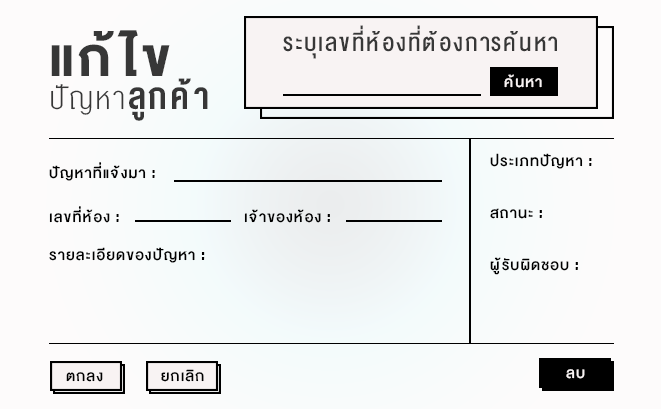
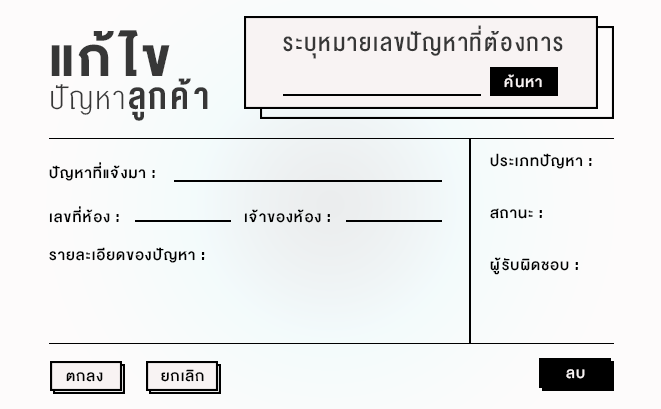
search report ในหน้าแก้ไข

Changed region(s): [[0.4841, 0.0587, 0.8472, 0.1467]]

diff --git a/Condominium/src/condominium/Condominium.java b/Condominium/src/condominium/Condominium.java
@@ -6,11 +6,14 @@
 package condominium;
 
 import com.toedter.calendar.JDateChooser;
+import condominium.model.ManagerEmp;
 import condominium.model.Problem;
 import condominium.model.Report;
 import condominium.model.Room;
 import condominium.model.User;
 import java.awt.Color;
+import java.sql.Connection;
+import java.sql.*;
 import java.util.Calendar;
 import java.util.Date;
 import java.util.List;
@@ -42,13 +45,31 @@ public class Condominium extends javax.swing.JFrame {
         }   
     }
     
+    public void show_emp(){
+        
+        try{
+            Connection con = ConnectionBuilder.getConnection();
+            PreparedStatement state = con.prepareStatement("select * from managerEmp");
+            ResultSet rs = state.executeQuery();
+            while(rs.next()){
+                String name = rs.getString("manFname")+" "+rs.getString("manLname");
+                manEmpbox.addItem(name);
+            }   
+        }catch(SQLException s){
+            s.printStackTrace();
+        }
+          
+    }
+    
     User myuser = null;
 
     public Condominium() {
         
         initComponents();
         show_report();
+        show_emp();
         adRegister.setVisible(false);
+        adConfig.setVisible(false);
         adIndex.setVisible(false);
         userIndex.setVisible(false);
         adReport.setVisible(false);
@@ -86,8 +107,9 @@ public class Condominium extends javax.swing.JFrame {
         configRoom.setBackground(new Color(0, 0, 0, 0));
         configDetail.setBackground(new Color(0, 0, 0, 0));
         configType.setBackground(new Color(0, 0, 0, 0));
-        searchRoom.setBackground(new Color(0, 0, 0, 0));
-
+        searchReport.setBackground(new Color(0, 0, 0, 0));
+        configUser.setBackground(new Color(0, 0, 0, 0));
+        
     }
 
     /**
@@ -101,7 +123,7 @@ public class Condominium extends javax.swing.JFrame {
 
         adReport = new javax.swing.JPanel();
         adConfig = new javax.swing.JPanel();
-        searchRoombtn = new javax.swing.JButton();
+        searchReportbtn = new javax.swing.JButton();
         okConfig = new javax.swing.JButton();
         cancleConfig = new javax.swing.JButton();
         deleteReport = new javax.swing.JButton();
@@ -110,12 +132,13 @@ public class Condominium extends javax.swing.JFrame {
         configDetail = new javax.swing.JTextField();
         configType = new javax.swing.JTextField();
         configUser = new javax.swing.JTextField();
-        searchRoom = new javax.swing.JTextField();
+        searchReport = new javax.swing.JTextField();
         statusBox = new javax.swing.JComboBox<>();
         manEmpbox = new javax.swing.JComboBox<>();
         adConfigBg = new javax.swing.JLabel();
         home1 = new javax.swing.JButton();
-        jScrollPane2 = new javax.swing.JScrollPane();
+        configbtn = new javax.swing.JButton();
+        repTablePane = new javax.swing.JScrollPane();
         reportTable = new javax.swing.JTable();
         adReportBg = new javax.swing.JLabel();
         userReport = new javax.swing.JPanel();
@@ -186,10 +209,15 @@ public class Condominium extends javax.swing.JFrame {
 
         adConfig.setLayout(new org.netbeans.lib.awtextra.AbsoluteLayout());
 
-        searchRoombtn.setText("\n");
-        searchRoombtn.setBorder(null);
-        searchRoombtn.setContentAreaFilled(false);
-        adConfig.add(searchRoombtn, new org.netbeans.lib.awtextra.AbsoluteConstraints(490, 70, 70, 30));
+        searchReportbtn.setText("\n");
+        searchReportbtn.setBorder(null);
+        searchReportbtn.setContentAreaFilled(false);
+        searchReportbtn.addActionListener(new java.awt.event.ActionListener() {
+            public void actionPerformed(java.awt.event.ActionEvent evt) {
+                searchReportbtnActionPerformed(evt);
+            }
+        });
+        adConfig.add(searchReportbtn, new org.netbeans.lib.awtextra.AbsoluteConstraints(490, 70, 70, 30));
 
         okConfig.setContentAreaFilled(false);
         adConfig.add(okConfig, new org.netbeans.lib.awtextra.AbsoluteConstraints(50, 360, 70, 30));
@@ -207,6 +235,11 @@ public class Condominium extends javax.swing.JFrame {
 
         configTopic.setEditable(false);
         configTopic.setBorder(null);
+        configTopic.addActionListener(new java.awt.event.ActionListener() {
+            public void actionPerformed(java.awt.event.ActionEvent evt) {
+                configTopicActionPerformed(evt);
+            }
+        });
         adConfig.add(configTopic, new org.netbeans.lib.awtextra.AbsoluteConstraints(170, 152, 270, 30));
 
         configRoom.setEditable(false);
@@ -225,8 +258,14 @@ public class Condominium extends javax.swing.JFrame {
         configUser.setBorder(null);
         adConfig.add(configUser, new org.netbeans.lib.awtextra.AbsoluteConstraints(340, 192, 100, 30));
 
-        searchRoom.setBorder(null);
-        adConfig.add(searchRoom, new org.netbeans.lib.awtextra.AbsoluteConstraints(280, 62, 200, 30));
+        searchReport.setFont(new java.awt.Font("BrowalliaUPC", 1, 24)); // NOI18N
+        searchReport.setBorder(null);
+        searchReport.addActionListener(new java.awt.event.ActionListener() {
+            public void actionPerformed(java.awt.event.ActionEvent evt) {
+                searchReportActionPerformed(evt);
+            }
+        });
+        adConfig.add(searchReport, new org.netbeans.lib.awtextra.AbsoluteConstraints(280, 62, 200, 30));
 
         statusBox.setModel(new javax.swing.DefaultComboBoxModel<>(new String[] { "New", "Actualize", "Success", " " }));
         statusBox.setBorder(null);
@@ -249,7 +288,16 @@ public class Condominium extends javax.swing.JFrame {
         });
         adReport.add(home1, new org.netbeans.lib.awtextra.AbsoluteConstraints(40, 20, 180, 80));
 
-        jScrollPane2.setBorder(null);
+        configbtn.setBorder(null);
+        configbtn.setContentAreaFilled(false);
+        configbtn.addActionListener(new java.awt.event.ActionListener() {
+            public void actionPerformed(java.awt.event.ActionEvent evt) {
+                configbtnActionPerformed(evt);
+            }
+        });
+        adReport.add(configbtn, new org.netbeans.lib.awtextra.AbsoluteConstraints(610, 130, 90, 40));
+
+        repTablePane.setBorder(null);
 
         reportTable.setModel(new javax.swing.table.DefaultTableModel(
             new Object [][] {
@@ -260,11 +308,11 @@ public class Condominium extends javax.swing.JFrame {
             }
         ));
         reportTable.setEnabled(false);
-        jScrollPane2.setViewportView(reportTable);
+        repTablePane.setViewportView(reportTable);
 
-        adReport.add(jScrollPane2, new org.netbeans.lib.awtextra.AbsoluteConstraints(40, 180, 660, 410));
+        adReport.add(repTablePane, new org.netbeans.lib.awtextra.AbsoluteConstraints(40, 180, 660, 410));
 
-        adReportBg.setIcon(new javax.swing.ImageIcon(getClass().getResource("/condominium/Admin-report.png"))); // NOI18N
+        adReportBg.setIcon(new javax.swing.ImageIcon("C:\\Users\\BoomGDH559\\Desktop\\Condominium\\Condominium\\src\\condominium\\Admin-report.png")); // NOI18N
         adReportBg.setText("jLabel2");
         adReport.add(adReportBg, new org.netbeans.lib.awtextra.AbsoluteConstraints(0, 0, 750, 600));
 
@@ -739,6 +787,29 @@ public class Condominium extends javax.swing.JFrame {
         // TODO add your handling code here:
     }//GEN-LAST:event_cancleConfigActionPerformed
 
+    private void configbtnActionPerformed(java.awt.event.ActionEvent evt) {//GEN-FIRST:event_configbtnActionPerformed
+        adConfig.setVisible(true);
+        repTablePane.setVisible(false);
+    }//GEN-LAST:event_configbtnActionPerformed
+
+    private void searchReportActionPerformed(java.awt.event.ActionEvent evt) {//GEN-FIRST:event_searchReportActionPerformed
+        
+    }//GEN-LAST:event_searchReportActionPerformed
+
+    private void configTopicActionPerformed(java.awt.event.ActionEvent evt) {//GEN-FIRST:event_configTopicActionPerformed
+        
+    }//GEN-LAST:event_configTopicActionPerformed
+
+    private void searchReportbtnActionPerformed(java.awt.event.ActionEvent evt) {//GEN-FIRST:event_searchReportbtnActionPerformed
+        int reportSearch = Integer.parseInt(searchReport.getText());
+        Report config = Report.configShow(reportSearch);
+        configTopic.setText(config.getReportTopic());
+        configDetail.setText(config.getReportDetail());
+        configRoom.setText(config.getRoom().getRoomNo());
+        configUser.setText(config.getRoom().getUser().getUserFname()+" "+config.getRoom().getUser().getUserLname());
+        configType.setText(config.getProb().getProbName());
+    }//GEN-LAST:event_searchReportbtnActionPerformed
+
     /**
      * @param args the command line arguments
      */
@@ -797,6 +868,7 @@ public class Condominium extends javax.swing.JFrame {
     private javax.swing.JTextField configTopic;
     private javax.swing.JTextField configType;
     private javax.swing.JTextField configUser;
+    private javax.swing.JButton configbtn;
     private com.toedter.calendar.JDateChooser date;
     private javax.swing.JButton deleteReport;
     private javax.swing.JTextField email;
@@ -805,7 +877,6 @@ public class Condominium extends javax.swing.JFrame {
     private javax.swing.JButton home1;
     private javax.swing.JButton jButton1;
     private javax.swing.JScrollPane jScrollPane1;
-    private javax.swing.JScrollPane jScrollPane2;
     private javax.swing.JTextArea jTextArea1;
     private javax.swing.JTextField lastname;
     private javax.swing.JButton login;
@@ -818,6 +889,7 @@ public class Condominium extends javax.swing.JFrame {
     private javax.swing.JButton profileBtn;
     private javax.swing.JButton register1;
     private javax.swing.JLabel registerBg;
+    private javax.swing.JScrollPane repTablePane;
     private javax.swing.JButton reportBtn;
     private javax.swing.JLabel reportDetail;
     private javax.swing.JTextField reportDetailTF;
@@ -826,8 +898,8 @@ public class Condominium extends javax.swing.JFrame {
     private javax.swing.JTable reportTable;
     private javax.swing.JButton save;
     private javax.swing.JButton save_report;
-    private javax.swing.JTextField searchRoom;
-    private javax.swing.JButton searchRoombtn;
+    private javax.swing.JTextField searchReport;
+    private javax.swing.JButton searchReportbtn;
     private javax.swing.JTextField status;
     private javax.swing.JComboBox<String> statusBox;
     private javax.swing.JTextField userId;

diff --git a/Condominium/src/condominium/model/ManagerEmp.java b/Condominium/src/condominium/model/ManagerEmp.java
@@ -10,12 +10,38 @@ import java.sql.Connection;
 import java.sql.PreparedStatement;
 import java.sql.ResultSet;
 import java.sql.SQLException;
+import java.util.ArrayList;
+import java.util.List;
 
 /**
  *
  * @author BoomGDH559
  */
 public class ManagerEmp {
+
+    public static List<ManagerEmp> showEmp() {
+        
+        List<ManagerEmp> emp = null;
+        try{
+            Connection con = ConnectionBuilder.getConnection();
+            PreparedStatement state = con.prepareStatement("select * from managerEmp");
+            ResultSet rs = state.executeQuery();
+            while(rs.next()){
+                if(emp == null){
+                    emp = new ArrayList<ManagerEmp>();
+                }
+                ManagerEmp man = new ManagerEmp();
+                man.setmFname(rs.getString("manFname"));
+                man.setmLname(rs.getString("manLname"));
+                emp.add(man);
+            }
+            con.close();
+        }catch(SQLException s){
+            s.printStackTrace();
+        }
+        return emp;
+        
+    }
     
     private int manId;
     private String mFname,mLname;
@@ -64,6 +90,16 @@ public class ManagerEmp {
         
         
     }
+    
+    
+    
+//    public static void main(String[] args) {
+//        
+//        List<ManagerEmp> emp = ManagerEmp.showEmp();
+//        for (ManagerEmp managerEmp : emp) {
+//            System.out.println(managerEmp.getManId()+" "+managerEmp.getmFname()+" "+managerEmp.getmLname());
+//        }
+//    }
     
     
     

diff --git a/Condominium/src/condominium/model/Report.java b/Condominium/src/condominium/model/Report.java
@@ -206,8 +206,33 @@ public class Report {
         return rp;
     
     }
+    
+    public static Report configShow(int reportId){
+        
+        Report config = new Report();
+        try{
+            Connection con = ConnectionBuilder.getConnection();
+            PreparedStatement state = con.prepareStatement("select * from report r join status s on r.statusId = s.statusId join managerEmp m on r.manId = m.manId "
+                    + "join problemType p on p.probId = r.probId join room rm on r.roomId = rm.roomId where r.reportId = ?");
+            state.setInt(1, reportId);
+            ResultSet rs = state.executeQuery();
+            while(rs.next()){
+                config.setReportTopic(rs.getString("reportTopic"));
+                config.setReportDetail(rs.getString("reportDetail"));
+                config.setRoom(Room.finduserbyId(rs.getInt("roomId")));
+                config.setProb(Problem.findprobbyId(rs.getInt("probId")));
+            }
+            con.close();
+        }catch(SQLException s){
+            s.printStackTrace();
+            System.err.print(s);
+        }
+        
+        return config;
+    }
 
 //    public static void main(String[] args) {
-//        System.out.println(insertReoprt("เจ็บจิ๋ม", "มากมาก", 5, 4));
+//        Report config = Report.configShow(9);
+//        System.out.println(config.getReportTopic());
 //    }
 }
